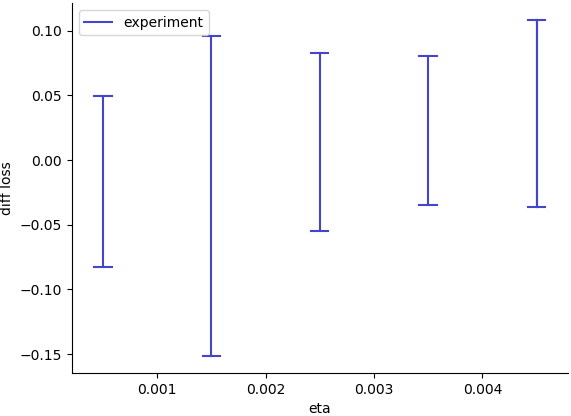
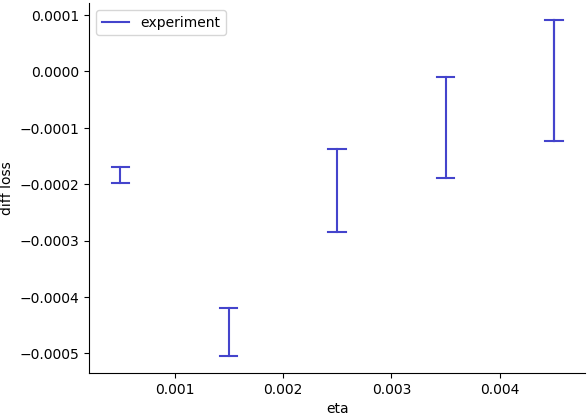
no bias conv

diff --git a/experiments/mnist_landscapes.py b/experiments/mnist_landscapes.py
@@ -65,7 +65,7 @@ class MnistAbstractArchitecture(MNIST):
             for depth in range(len(self.subweight_shapes)+1) 
         ]
         self.subweight_scales = [
-            (shape[0] + prod(shape[1:]))**(-0.5)
+            2.0*(shape[0] + prod(shape[1:]))**(-0.5)
             for shape in self.subweight_shapes
         ]
 
@@ -116,18 +116,18 @@ class MnistLeNet(MnistAbstractArchitecture):
     def __init__(self, digits=list(range(10))):
         super().__init__(digits)
         self.subweight_shapes = [
-            (16              ,  1     , 5, 5), 
-            (16              , 16     , 5, 5),
-            (16              , 4*4*16       ), 
-            (self.nb_classes , 16           )
+            (16              ,  1     , 5, 5),      #(16,), 
+            (16              , 16     , 5, 5),      #(16,),
+            (16              , 4*4*16       ),      #(16,),
+            (self.nb_classes , 16           ),      #(self.nb_classes,)
         ]
         self.reset_weights()
     def get_loss_stalk(self, data_indices):
         x, y = self.imgs[data_indices], self.lbls[data_indices]
-        x = tanh(1.0 + conv2d(x, self.get_subweight(0), bias=None, stride=2))
-        x = tanh(1.0 + conv2d(x, self.get_subweight(1), bias=None, stride=2))
+        x = tanh(conv2d(x, self.get_subweight(0), bias=None, stride=2))
+        x = tanh(conv2d(x, self.get_subweight(1), bias=None, stride=2))
         x = x.view(-1, 4*4*16, 1)
-        x = tanh(1.0 + matmul(self.get_subweight(2), x))
+        x = tanh(matmul(self.get_subweight(2), x))
         x = matmul(self.get_subweight(3), x)
         x = x.view(-1, self.nb_classes)
         logits = log_softmax(x, dim=1)

diff --git a/experiments/visualize.py b/experiments/visualize.py
@@ -47,7 +47,7 @@ def plot_bars(x, y, s, color, label, z=1.96, bar_width=1.0/50):
     #--------------------------------------------------------------------------#
     #               2.1 plot curves                                            #
     #--------------------------------------------------------------------------#
-for opt in ('sgd', 'gd'):
+for opt in ('sgd',):#, 'gd'):
     X, Y, S = [], [], []
     for okey in ol:
         if okey.optimizer != opt: continue
@@ -62,7 +62,7 @@ for opt in ('sgd', 'gd'):
         X,
         Y,
         S,
-        color=blue if opt=='gd' else red,
+        color=blue if opt=='sgd' else red,
         label='experiment'
     )
 

diff --git a/experiments/predictor.py b/experiments/predictor.py
@@ -21,7 +21,7 @@ def from_string(formula, eta, T):
     S = formula.replace('- ', '+ ').replace(' -', ' +')
     for k in gs:
         Y = Y.replace(k, 'gs["{}"]["mean"]'.format(k))
-        S = S.replace(k, 'gs["{}"]["stdv"]/gs["{}"]["nb_samples"]'.format(k, k))
+        S = S.replace(k, 'gs["{}"]["stdv"]/gs["{}"]["nb_samples"]**0.5'.format(k, k))
     return (eval(form, {'eta':eta, 'T':T, 'gs':gs}) for form in (Y, S))
 
 def sgd_test_linear(eta, T):

diff --git a/experiments/simulator.py b/experiments/simulator.py
@@ -77,7 +77,7 @@ if __name__=='__main__':
     ol = OptimLog()
     for eta in tqdm.tqdm(np.arange(0.0005, 0.005, 0.001)):
         for T in [100]:
-            ol.absorb(compute_losses(LC, eta=eta, T=T, N=T, I=int(100000.0/(T+1))))
+            ol.absorb(compute_losses(LC, eta=eta, T=T, N=T, I=int(1000.0/(T+1))))
     print(ol)
     with open('ol.data', 'w') as f:
         f.write(str(ol))

diff --git a/experiments/derivator.py b/experiments/derivator.py
@@ -65,7 +65,7 @@ if __name__ == '__main__':
 
     from mnist_landscapes import MnistLeNet
     LC = MnistLeNet()
-    grad_stats = str(compute_grad_stats(LC, N=30, I=1000))
+    grad_stats = str(compute_grad_stats(LC, N=300, I=10000))
     with open('gs.data', 'w') as f:
         f.write(grad_stats)
 
